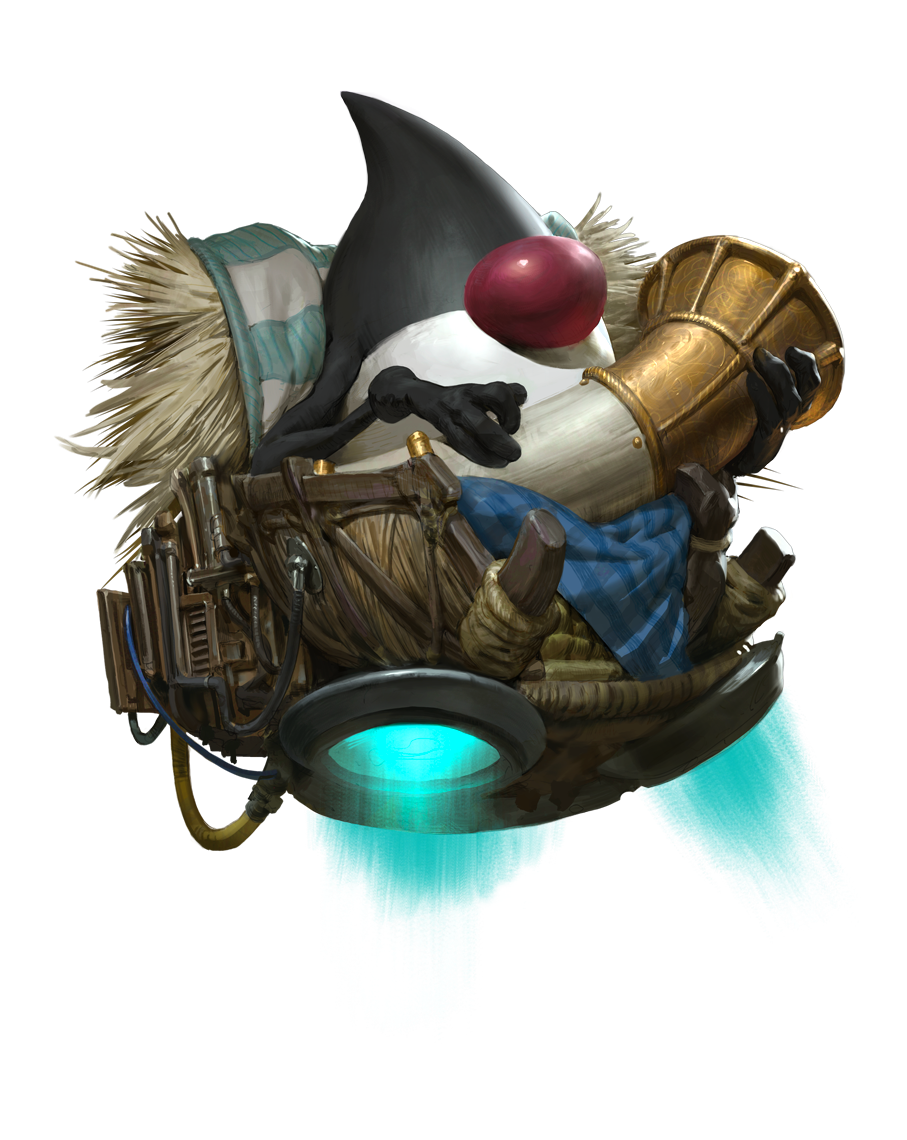
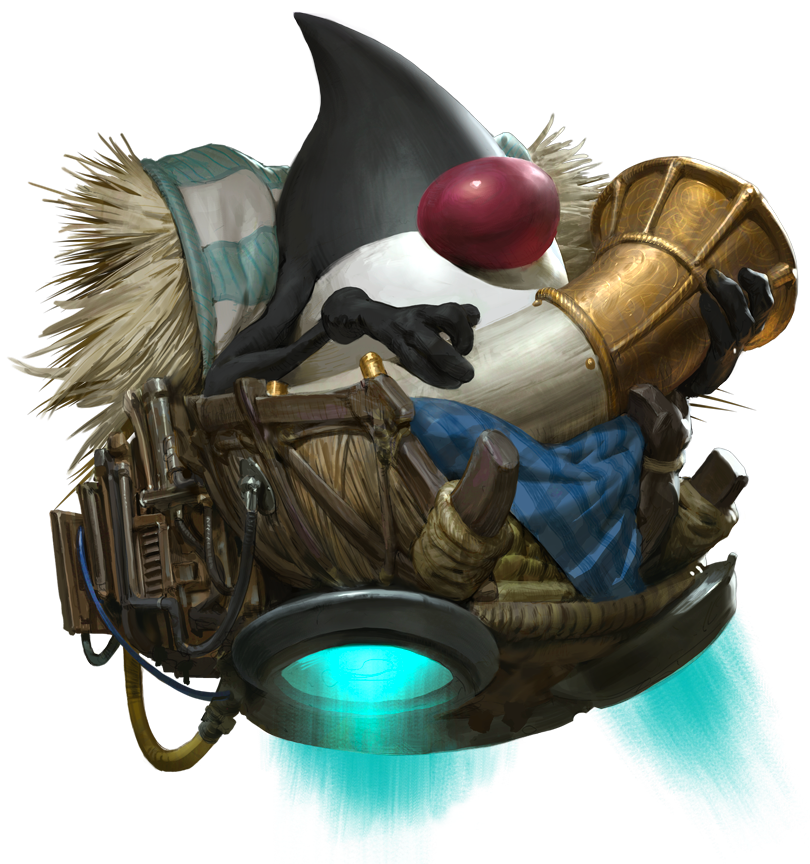
Add the duke to info

diff --git a/src/pages/Info/Info.tsx b/src/pages/Info/Info.tsx
@@ -4,6 +4,7 @@ import { Section } from '../../components/Section/Section';
 import { InlineLink } from '../../components/InlineLink/InlineLink';
 import { ImageSection } from '../../components/ImageSection/ImageSection';
 import Link from "../../components/Link/Link";
+import {Figure} from "../../components/Figure/Figure";
 
 export function InfoPage() {
     return (
@@ -29,7 +30,7 @@ export function InfoPage() {
                     To attend JavaZone you will need a ticket. The ticket grants you access to the full JavaZone experience, including workshops. The number of tickets is limited and distributed on a first-come-first-served basis, so it pays to be quick.
                 </p>
             </Section>
-            <ImageSection imageName="partners_1" />
+            <Figure name="duke"/>
             <Section color="pink" header={<h1>Two conference days</h1>}>
                 <p>
                     Two days full of talks from renowned Norwegian and international speakers, in varying formats and categories. You don´t want to miss our amazing lineup.

diff --git a/src/components/Figure/Figure.tsx b/src/components/Figure/Figure.tsx
@@ -1,0 +1,16 @@
+import React from "react";
+import styles from './Figure.module.scss';
+
+export type FigureName = 'askhild' | 'baard' | 'duke' | 'freya' | 'ragnar' | 'sigrid' | 'toke'
+
+export interface FigureProps {
+    name: FigureName;
+}
+
+export function Figure(props: FigureProps) {
+    return (
+        <div className={styles.container}>
+            <img className={styles.figure} src={`/2020/images/${props.name}.png`} alt="cool figure of a viking"/>
+        </div>
+    )
+}

diff --git a/src/components/Figure/Figure.module.scss b/src/components/Figure/Figure.module.scss
@@ -1,0 +1,17 @@
+@import '../../variables.scss';
+
+.container{
+    display:flex;
+    max-height: 40rem;
+    min-height: 30rem;
+    @media only screen and (max-width: $screen-sm) {
+        max-height: 15rem;
+        min-height: 10rem;
+    }
+}
+
+.figure{
+    object-fit: contain;
+    margin: 0 auto;
+    width: 100%;
+}
